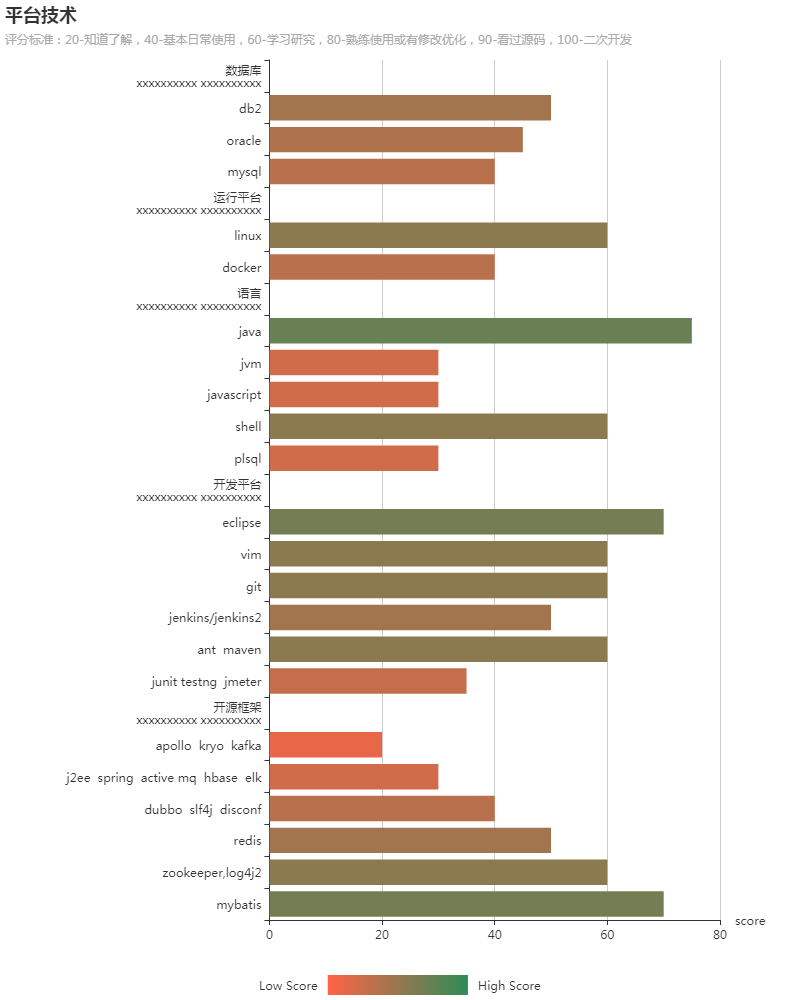
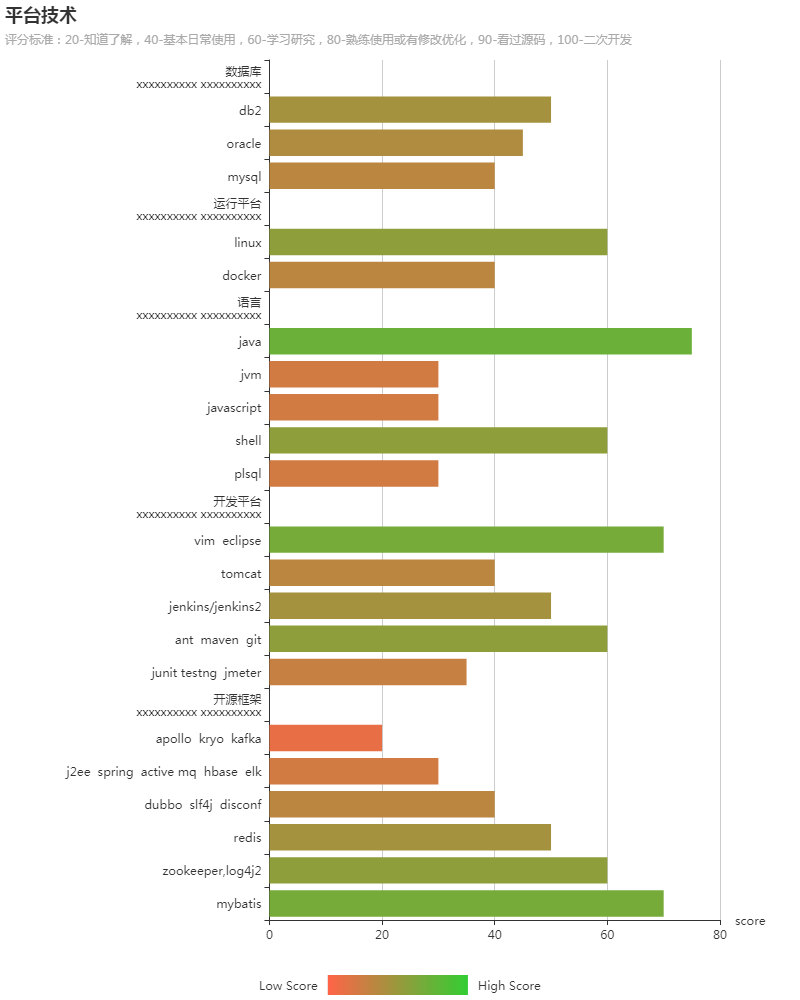
Site updated: 2019-04-20 20:34:42

Changed region(s): [[0.125, 0.062, 0.875, 0.93], [0.4688, 0.961, 0.5938, 1.0]]

diff --git a/about/index.html b/about/index.html
@@ -87,7 +87,8 @@
 <meta property="og:description" content="Thanks to OpenSource, I am feeling free more and more.Thanks me for choosing learnning programming, I am feeling stronger and stronger.I promise, I will share all I learn as reward. That’s why this bl">
 <meta property="og:locale" content="zh-Hans">
 <meta property="og:image" content="https://kenson321.github.io/uploads/平台技术得分柱状图.png">
-<meta property="og:updated_time" content="2019-04-20T09:26:41.440Z">
+<meta property="og:image" content="https://kenson321.github.io/uploads/总体技能雷达图.png">
+<meta property="og:updated_time" content="2019-04-20T12:33:43.450Z">
 <meta name="twitter:card" content="summary">
 <meta name="twitter:title" content="kenson">
 <meta name="twitter:description" content="Thanks to OpenSource, I am feeling free more and more.Thanks me for choosing learnning programming, I am feeling stronger and stronger.I promise, I will share all I learn as reward. That’s why this bl">
@@ -270,7 +271,7 @@
         
         
           <p>Thanks to OpenSource, I am feeling free more and more.<br>Thanks me for choosing learnning programming, I am feeling stronger and stronger.<br>I promise, I will share all I learn as reward. That’s why this blog exists.</p>
-<h2 id="Tags"><a href="#Tags" class="headerlink" title="Tags"></a>Tags</h2><p>程序员（不再是码农啦~）<br>经适男，宅男，偏草食系</p>
+<h2 id="Tags"><a href="#Tags" class="headerlink" title="Tags"></a>Tags</h2><p>Programmer（Not just a coder any more~~~）<br>（网络词汇）经适男，宅男，草食系</p>
 <h2 id="My-Aim"><a href="#My-Aim" class="headerlink" title="My Aim"></a>My Aim</h2><p>freedom, be free to do what I like.</p>
 <blockquote>
 <p>free for money, so I don’t need to worry about lack of money to keep alive, so I still work hard.<br>free for body, so I can walk around the world, so I practise daily.<br>free for mind, so I can know the truth, so I reads.</p>
@@ -299,10 +300,11 @@
     </tr>
 </table -->
 <h3 id="自评"><a href="#自评" class="headerlink" title="自评"></a>自评</h3><p><img src="/uploads/平台技术得分柱状图.png" alt=""></p>
+<p><img src="/uploads/总体技能雷达图.png" alt=""></p>
 <ul>
 <li><p>竞争力<br>丰富的项目经验，复合型综合能力、独立解决问题的能力、学习能力</p>
 <blockquote>
-<p>我曾经是个主机码农，几经周折才官至应用架构师，有一天某位领导评价说我是一个业务架构师，当时懵了一下。后来醒悟了，对的，就因为IBM说为了让我们能专注于业务，于是，其实我们都在技术成长的道路上止步了。不过也有很多人认为，技术始终是为业务服务，我们只是负责应用集成，他们一直努力，成了产品经理或者管理阶层。而我选择了另一条路。<br>工作7年后，偶然一个机会，我的<em>红发</em>带着我转型到开放平台，我突然发现了通向系统架构师的道路：一切都可以自己DIY（80后最喜欢的词），不再被别人架空，可以深入了解底层的技术，以便业务设计可以更脑洞大开。这种感觉就好像luffy猛然发现并学会了霸气一般，但是来到新世界，满大街都是会霸气的人。而我没有主角光环，4年后努力转型觉得自己技术进步了那么多，充其量也还是会用了很多工具而已，至今遗憾没通读过一个开源项目内部实现的代码。<br>但也总算找到了方向，而且也从码农升级为程序员了，因为在转型的过程中我也学会了开发工具提高工作效率（LUFFY的霸气），我认为这是程序员和码农的区别。虽然转型了，但我相信之前的工作也是宝贵的经验，培养锻炼了我的诸多软实力。<br>未来，我想我希望做一个全栈的系统架构师。有人比喻这是飞向蓝天，而深入地底的则是专项架构师。未来，未完待续。。</p>
+<p>我曾经是个主机码农，几经周折才官至应用架构师，有一天某位领导评价说我是一个业务架构师，当时懵了一下。后来醒悟了，对的，就因为IBM说为了让我们能专注于业务，于是，其实我们都在技术成长的道路上止步了。不过也有很多人认为，技术始终是为业务服务，我们只是负责应用集成，他们一直努力，成了产品经理或者管理阶层。而我选择了另一条路。<br>工作7年后，偶然一个机会，我的<em>红发</em>带着我转型到开放平台，我突然发现了通向系统架构师的道路：一切都可以自己DIY（80后最爱），不再被别人架空，可以深入了解底层的技术，以便业务设计可以更脑洞大开。这种感觉就好像luffy猛然发现并学会了霸气一般，但是来到新世界，满大街都是会霸气的人。而我没有主角光环，4年努力转型觉得自己技术进步了那么多，其实就是会用了很多工具而已，至今遗憾没通读过一个开源项目内部实现的代码。<br>但总算找到了方向，最值得欣慰的是从码农升级为程序员了，因为在转型的过程中我也学会了开发工具提高工作效率（LUFFY的霸气），我认为这是程序员和码农的区别。虽然转型了，但我相信之前的工作也是宝贵的经验，培养锻炼了我的诸多软实力。<br>未来，我要我希望做一个技术team leader</p>
 </blockquote>
 </li>
 <li><p>3年规划</p>
@@ -314,7 +316,7 @@
 </ol>
 </li>
 </ul>
-<p>但是，我有个疑虑，<a href="https://kenson321.github.io/2018/11/25/%E5%A4%A9%E5%A4%A9%E5%86%99%E4%B8%9A%E5%8A%A1%E4%BB%A3%E7%A0%81%EF%BC%8C%E5%A6%82%E4%BD%95%E6%88%90%E4%B8%BA%E6%8A%80%E6%9C%AF%E5%A4%A7%E7%89%9B/">天天写业务代码，如何成为技术大牛</a>？怎么成为HR描述的那种全才？</p>
+<p>只是，我也还很焦躁，<a href="https://kenson321.github.io/2018/11/25/%E5%A4%A9%E5%A4%A9%E5%86%99%E4%B8%9A%E5%8A%A1%E4%BB%A3%E7%A0%81%EF%BC%8C%E5%A6%82%E4%BD%95%E6%88%90%E4%B8%BA%E6%8A%80%E6%9C%AF%E5%A4%A7%E7%89%9B/">天天写业务代码，如何成为技术大牛</a>？怎么成为HR描述的那种全才？</p>
 
         
       </div>

diff --git a/css/main.css b/css/main.css
@@ -1822,7 +1822,7 @@ pre .javascript .function {
   width: 4px;
   height: 4px;
   border-radius: 50%;
-  background: #5b9fff;
+  background: #f28a49;
 }
 .links-of-blogroll {
   font-size: 13px;
